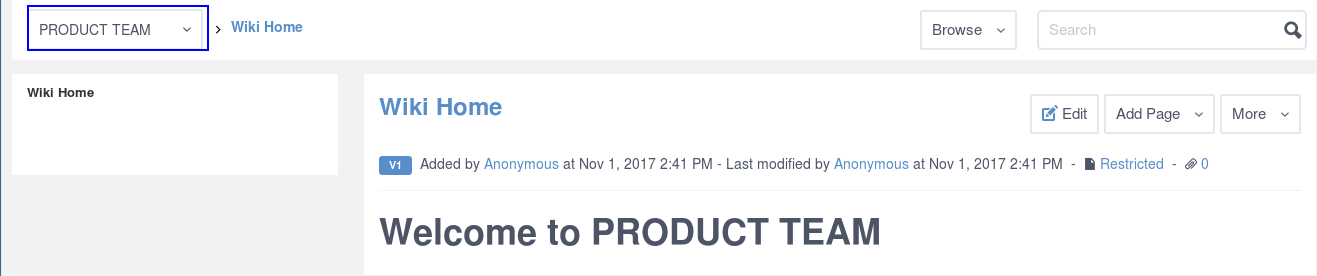
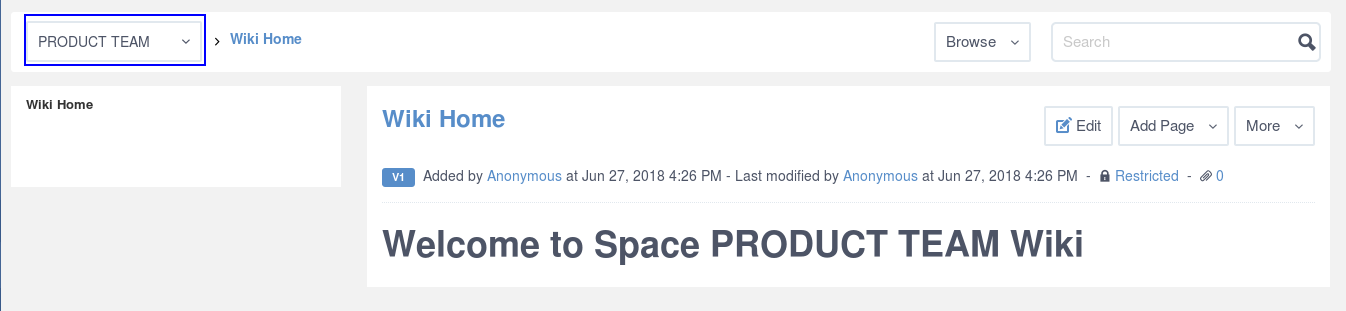
DOC-4200: Document the feature [Wiki Page] Welcome to MyWiki

diff --git a/docs/Wiki.rst b/docs/Wiki.rst
@@ -14,6 +14,21 @@ Working With Wikis
     will complete the ideal combination that helps users enhance their
     experiences on collaboration activities and build valuable knowledge
     center for clients.
+    
+.. tip:: When accessing wiki application, a welcome page is displayed indicating in which wiki you are in.
+			- If you are in a user's wiki application, the welcome page will display the message **Welcome to $FirstName $LastName Wiki**, 
+			where FirstName and LastName are the first and the last name of the user.
+			|image95|
+			- If you are in a space's wiki application, the welcome page will display the message **Welcome to Space $SpaceName Wiki**, 
+			where SpaceName is the space name.
+			|image96|
+
+
+.. note:: The message of the welcome page in Wiki application, either for users profiles or spaces is a static message. It tooks the first set parameters
+			i.e. the first **$FirstName** and **$LastName** set by the user and the first **$SpaceName** set by the space's creator.
+			For example, in the case below, the first space name chosen by its creator was "PM Team" then changed to "Product Management Team" 
+			but the wiki welcome page contains always **Welcome to Space PM Team Wiki**.
+						|image97|
 
     This chapter covers the following topics:
 
@@ -71,11 +86,15 @@ another space right in the breadcrumb of the current Wiki navigation. To
 quickly switch to another space, simply click the currently browsed
 space name:
 
+|image92|
+
 Type your desired space name in the search box to filter the space and
 click your space name from the search results. Then you will be
 redirected to the Wiki home of the selected space. The "**My Wiki**\ "
 and "**Intranet**\ " are displayed by default, which will direct you to
 the homepage of your personal Wiki and Intranet Wiki accordingly.
+
+|image93|
 
 
 .. note::Only spaces where you are their member are displayed in the search result.
@@ -112,6 +131,8 @@ a space works as a group wiki for that space. The group wiki can be
 accessed by members of that group.
 
 For example:
+
+|image94|
 
 -  **User wiki**: The wiki of an individual user.
 
@@ -1301,3 +1322,9 @@ use the wiki syntax to format content as normal.
 .. |image90| image:: images/common/delete_icon.png
 .. |image91| image:: images/wiki/webdav_folders.png
 .. |WYSIWYG| image:: images/wiki/undefined_link.png
+.. |image92| image:: images/wiki/wiki_navigation.png
+.. |image93| image:: images/wiki/wiki_navigation_filter.png
+.. |image94| image:: images/wiki/group_wiki.png
+.. |image95| image:: images/wiki/usersWiki.png
+.. |image96| image:: images/wiki/spaceWiki.png
+.. |image97| image:: images/wiki/changed-name.png
